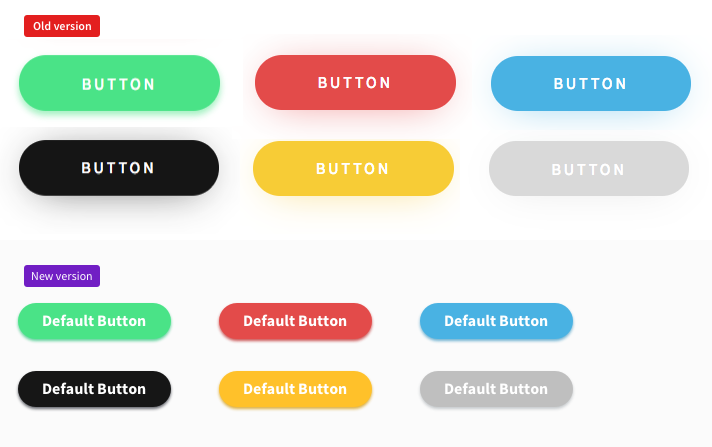
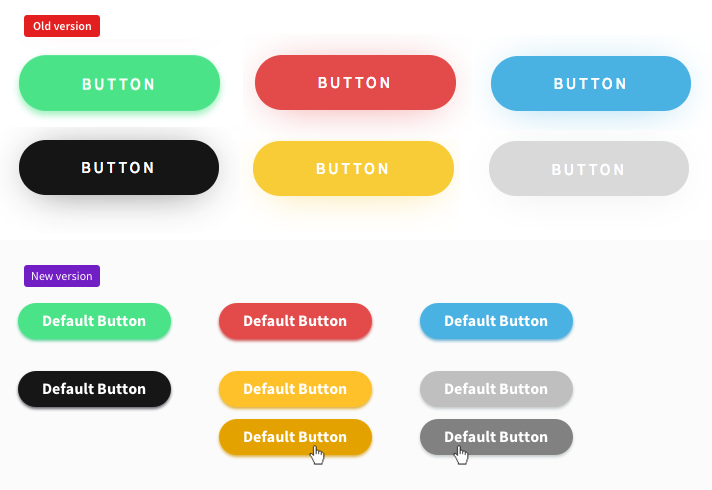
Button groups, tables, buttons

diff --git a/index.html b/index.html
@@ -66,13 +66,7 @@
                 <li>Modal views with tabs</li>
                 <li>Modal views with Save / Discard</li>
                 <li>Modal views with Back / Next</li>
-                <li>Data table with actions as icons</li>
-                <li>Data table with actions as text</li>
-                <li>Data table with different colors (labels, text)</li>
-                <li>Data tables with graphs</li>
-                <li>Data tables with trends ( &uarr; &darr; - )</li>
-                <li>Grid with different views (table view, cards)</li>
-
+                <li>Data tables with graph previews</li>
             </ul>
         </p>
 
@@ -102,12 +96,20 @@
                     <li>The difference between large/default/small buttons was increased.</li>
                     <li>Extra styles introduced: all button sizes with icons, dropdown arrows.</li>
                     <li>New style — bordreless button — was added.</li>
+                    <li>Yellow and grey colors (hover colors as well) changed.</li>
+                    <li>Button groups updated.</li>
                 </ul>
-
             </p>
             <img src="./img/buttons_compare.png" class="img-fluid mb-5" alt="Buttons Chart">
             <img src="./img/button_specs.png" class="img-fluid mb-5" alt="Buttons Specificaions">
-            <img src="./img/buttons_colors.png" class="img-fluid" alt="Buttons Colors">
+            <img src="./img/buttons_colors.png" class="img-fluid mb-5" alt="Buttons Colors">
+            <h5>
+                Button Groups
+            </h5>
+            <p>
+                Updated styles for button groups and inline selects. Can be used for pagination, table view select, etc.
+            </p>
+            <img src="./img/button_groups.png" class="img-fluid" alt="Button Groups">
             <hr class="my-5">
         </section>
 
@@ -120,7 +122,7 @@
                 Inputs were improved taking in consideration three things: 1) optimize space usage; 2) increase contrast when mupltiple inputs are on the form; 3) add missing styles; 4) use rich Material Icons Library as the default source of icons.
                 <ul>
                     <li>Reduced height allowed to save up to 10% space</li>
-                    <li>Light gray background makes a single input stand out more</li>
+                    <li>Light grey background makes a single input stand out more</li>
                     <li>Thinner bottom border offers lighter &amp; cleaner style</li>
                     <li>Consistent icons for inputs. I updated Vuestic icons pack to set default icons. Currently they belong to different sets (Ionic, FontAwesome).</li>
                     <li>New styles added: w icons, masks, required inputs.</li>
@@ -198,11 +200,6 @@
                 Basic Vuestic icon pack was improved. It consists of icons that can be used in inputs, tables, etc. <br> We should also include Google Material Icons to Icons section.
             </p>
             <img src="./img/vuestic_icons.png" class="img-fluid" alt="Vuestic Icons">
-            <p>
-                <span class="text-danger">
-                [Icon will be extended with tables controls like Delete, Edit, etc.]
-                </span>
-            </p>
             <hr class="my-5">
         </section>
 
@@ -214,15 +211,18 @@
             <p>
                 Tables is one of the most important parts of the dashboard. I suggest not only tweaking visual style, but also adding new features.
             </p>
-            <p class="label_table">
-                Headings
-            </p>
-            <p class="label_input">
-                Input Title
-            </p>
-            <span class="text-danger">
+            <ul>
+                <li>Column headings updated (they differ from input labels).</li>
+                <li>Main font size reduced.</li>
+                <li>Actions as text and icons.</li>
+                <li>Default &amp; colored backgrounds updated.</li>
+                <li>Yellow and grey labels updated.</li>
+                <li>New type of graph included.</li>
+            </ul>
+            <img src="./img/tables.png" class="img-fluid mb-5" alt="Tables">
+            <p class="text-danger">
                 There is a bug with pagination. Columns ocasionally change widths and the content wiggles inside the table. Same issue with sortings.
-            </span>
+            </p>
             <hr class="my-5">
         </section>
 
@@ -237,6 +237,28 @@
                     <li>Input label updated</li>
                     <li>Table heading updated</li>
                 </ul>
+            </p>
+            <hr class="my-5">
+        </section>
+
+        <!-- Modals -->
+        <section class="mt-4">
+            <h4>
+                Modals
+            </h4>
+            <p class="text-danger">
+                [To be completed]
+            </p>
+            <hr class="my-5">
+        </section>
+
+        <!-- Layout -->
+        <section class="mt-4">
+            <h4>
+                Layout
+            </h4>
+            <p class="text-danger">
+                [To be completed]
             </p>
             <hr class="my-5">
         </section>
